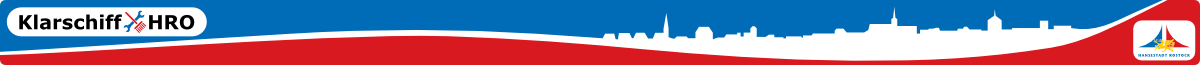
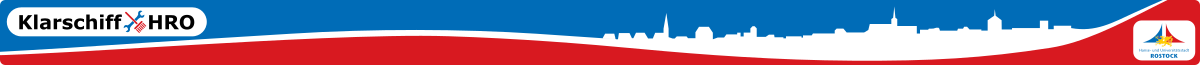
Nachtrag: aus Hansestadt Rostock wird Hanse- und Universitätsstadt Rostock

diff --git a/src/main/webapp/styles/styles_frontend-connector.css b/src/main/webapp/styles/styles_frontend-connector.css
@@ -93,7 +93,7 @@ header {
   background-image: url(../images/logo_hro.png);
   margin: 5px 15px;
   width: 118px;
-  height: 74px;
+  height: 83px;
   float: right;
 }
 
